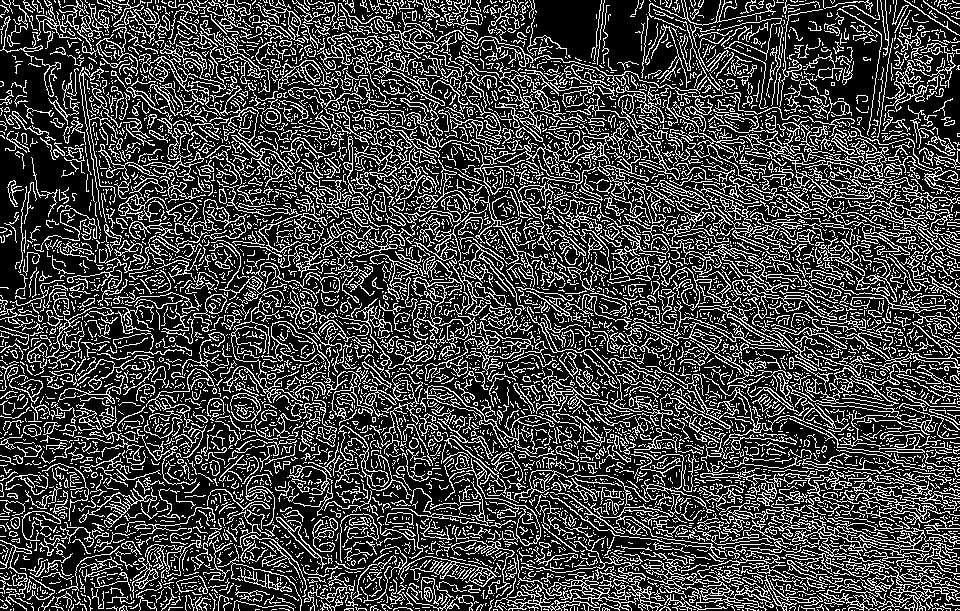
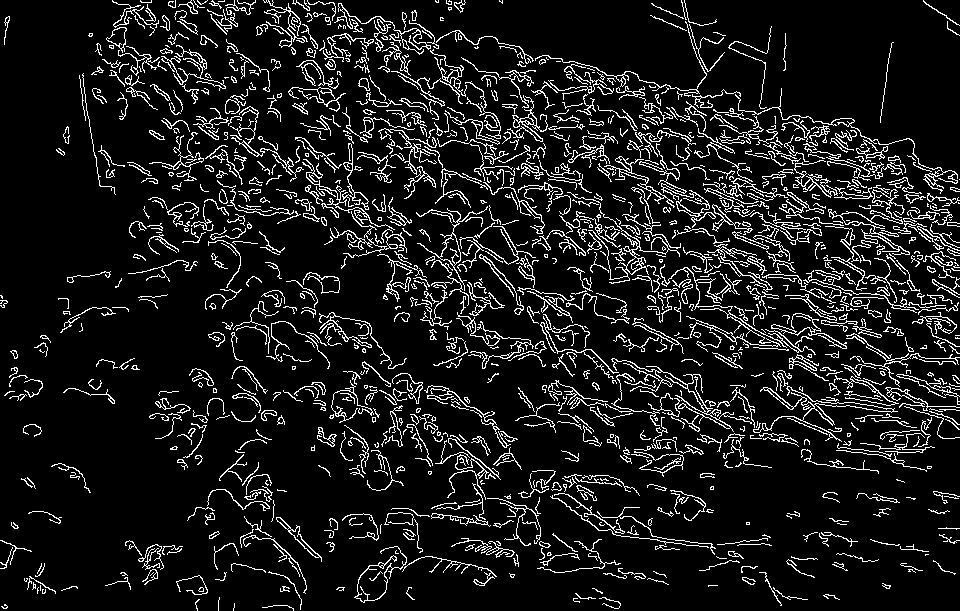
refactor: Improve canny edge detection

Changed region(s): [[0.0, 0.0, 1.0, 1.0]]

diff --git a/src/main/java/io/github/steveplays28/Main.java b/src/main/java/io/github/steveplays28/Main.java
@@ -90,8 +90,9 @@ public class Main {
 
 		// Canny edge detection
 		Mat cannyEdgeDetectedImage = new Mat();
+		Imgproc.cvtColor(colorConvertedImage, colorConvertedImage, Imgproc.COLOR_RGB2GRAY);
 		Imgproc.blur(colorConvertedImage, colorConvertedImage, new Size(3, 3));
-		Imgproc.Canny(colorConvertedImage, cannyEdgeDetectedImage, 300, 600, 5, true);
+		Imgproc.Canny(colorConvertedImage, cannyEdgeDetectedImage, 100, 210, 3, true);
 
 		var resultOk3 = saveProcessedImage(filePath.toString(), "canny_edge_detection_processed", cannyEdgeDetectedImage);
 		if (resultOk3) {
